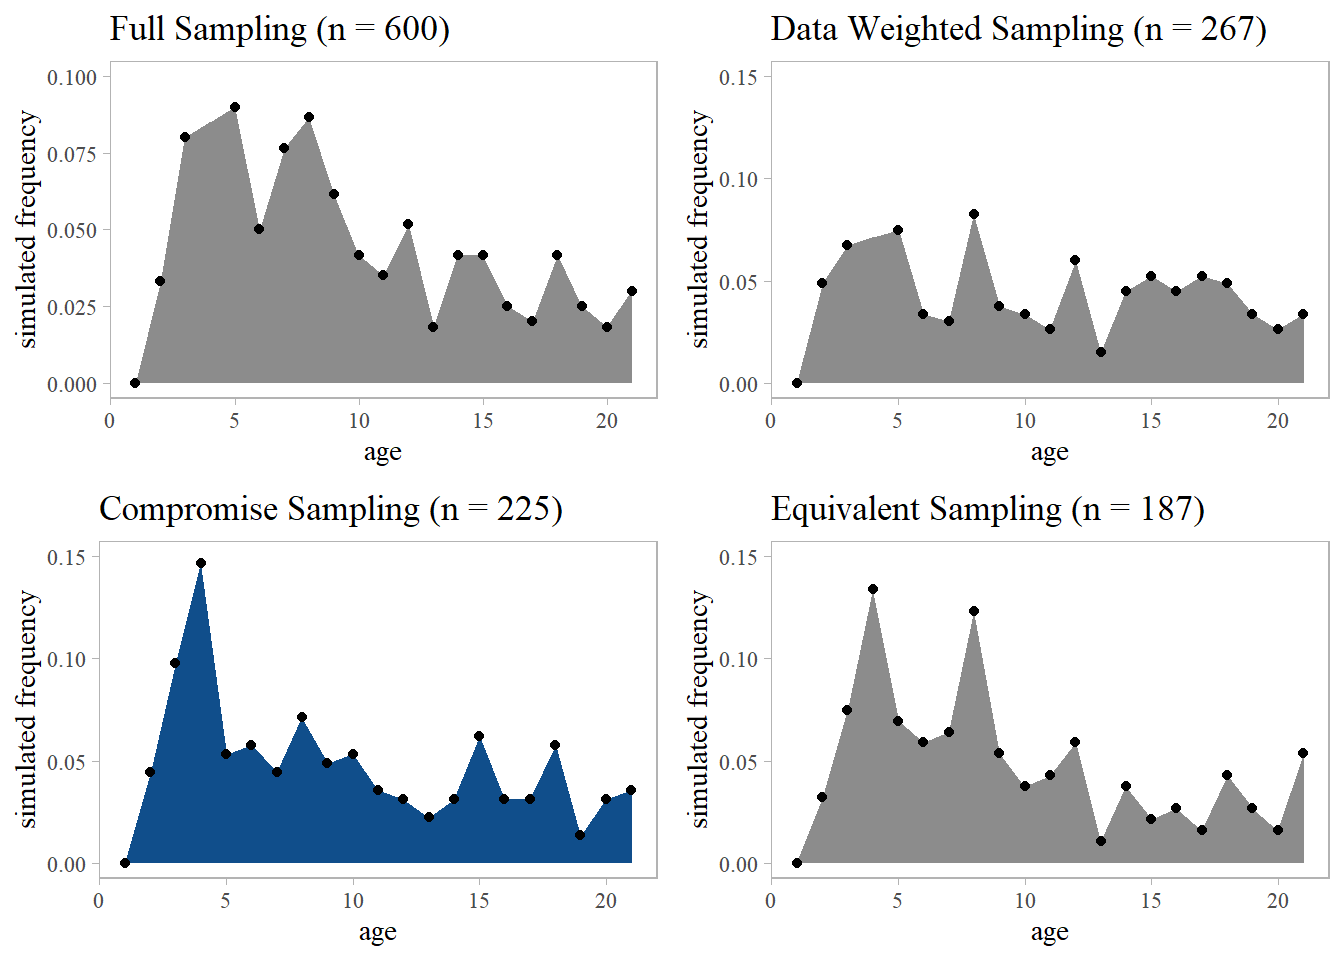
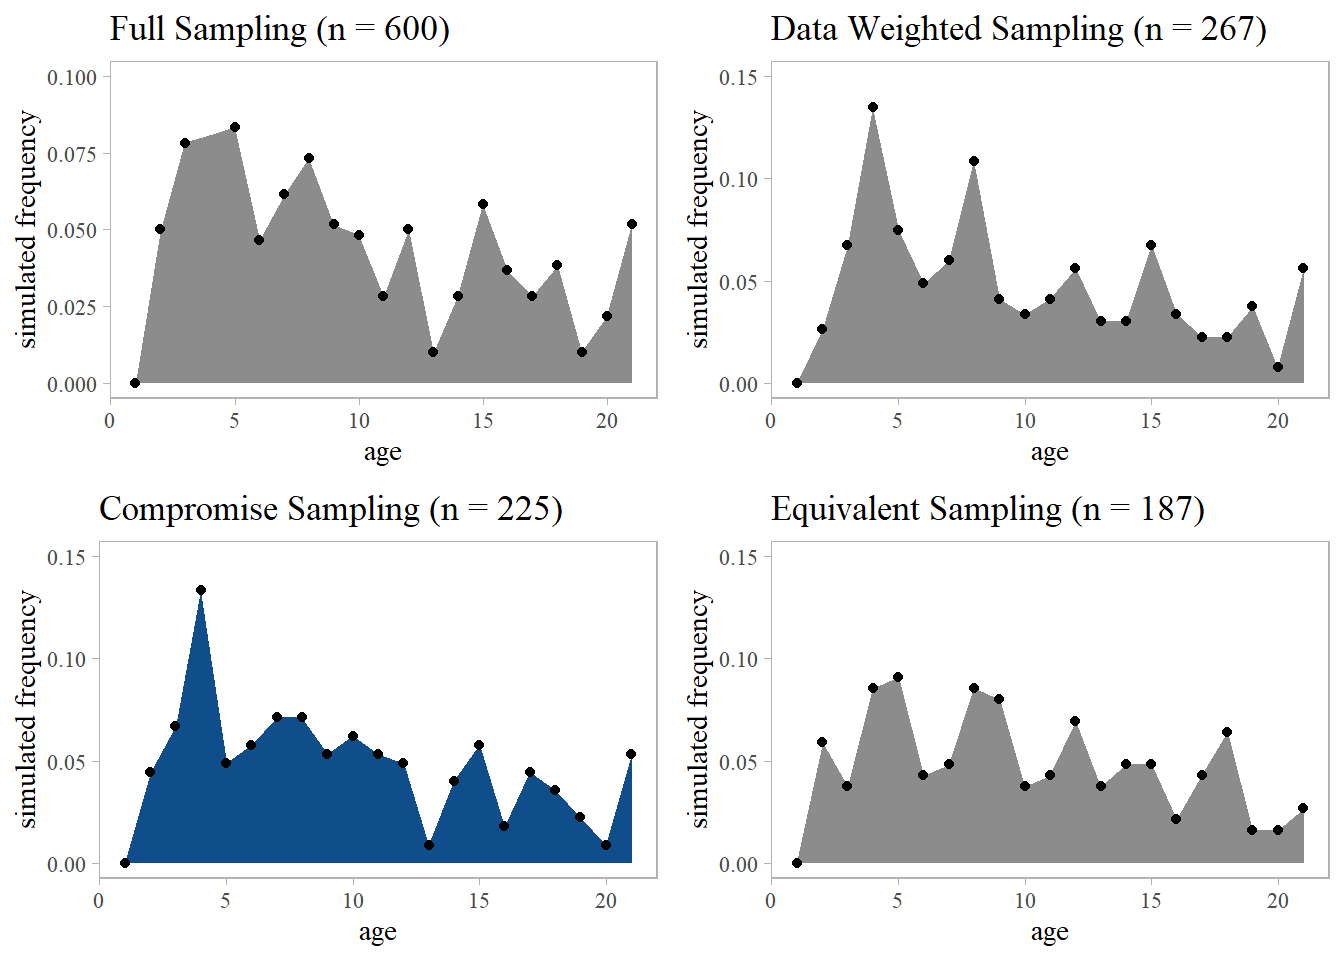
update marginal len/age look with gapindex
after confirming the input data was satisfactorily similar to the past, I re-ran the 2020 model with the gapindex data one at a time and confirmed that estimates were stable.

diff --git a/docs/2024_bridging_analysis.html b/docs/2024_bridging_analysis.html
@@ -412,17 +412,10 @@ ul.task-list li input[type="checkbox"] {
 <h2 class="anchored" data-anchor-id="survey-compositional-data">Survey Compositional Data</h2>
 <section id="survey-caals" class="level3">
 <h3 class="anchored" data-anchor-id="survey-caals">Survey CAALs</h3>
-<p>I was unable to reproduce the CAAL data used in 2020 with my own methods: starting with the <code>_specimen</code> data from either <code>afscdata()</code> or <code>gapindex</code> and running an intuitive calculation resulted in very different datasets (and derived quantities). The only thing that came close was to recycle Carey’s code to workup on the <code>AL.df</code> object corresponds to <code>2020/data/ages_survey_ebs.csv</code> which is the roughly the same as what comes out of <code>_specimen</code>. So, I consolidated the code used in the last model into <code>R/calculate_survey_comps.R</code>. I suspect that the <code>gapindex</code> data pull has some behind-the-scenes summary steps (e.g., those leading to the MEAN length column) that render it distinct from the raw specimen data, and that my “creative” use of <code>dplyr</code> might be masking discrepancies in summary methods.</p>
-<p>In addition, the <code>afscassess</code> package is not ready to handle the BSAI survey data, so marginal calculations had to be done with my own functions in <code>R/</code>.</p>
-<p>The model uses survey conditional age-at-length data and marginal length composition data. The marginal survey <em>ages</em> are ghosted into the model for plotting purposes. The workflow for these data are as follows:</p>
-<ul>
-<li>Pull the raw data from <code>racebase</code> using the <code>afscdata</code> approach (see <code>2024_analysis.R</code>)</li>
-<li>Calculate the marginal survey ages from <code>bsai_length_specimen.csv</code>.</li>
-<li>Calculate the marginal survey lengths from <code>bsai_length_data.csv</code>.</li>
-<li>Calculate conditional ages-at-length for each sex via the following: Starting with the EBS ages, filter out Bering Flounder (code <code>10140</code>) and only include the EBS (subarea &lt;= 6) and sexed fish (3). Bin the data into length and age bins greater than 0 (legacy code <code>BIN_AGE_DATA</code> and <code>BIN_LEN_DATA</code>). Group by bins and tabulate the number in each unique combination; filling missing values from zero. Reformat into SS3 syntax.</li>
-</ul>
+<p>I went on a long journey to reproduce the survey compositional data, and came to the conclusion that it must be done using the material in the <code>gapindex</code> package, which is more faithful to what was provided in earlier years in the <code>HAEHNR</code> schema. My suspicion is that there is under-the-hood filtration and expansion taht <code>afscdata</code> simply can’t handle yet (at least for the BSAI), and going forward it is more sensible that we work with a tool that is maintained by the folks collecting the data.</p>
+<p>A deep dive into these issues is undertaken in R/2024_survey_comp_deepdive.qmd, and the lessons learned led to the development of a standalone workup script that 1) pulls from <code>gapindex</code> and 2) munges the appropriate subtables in to the SS3-style compositional data. This replaces the long and redundant set of code that was developed for 2020. For simplicity, the plots here simply illustrate that we were able to get identical datasets and derived quantities using the new methods.</p>
 <div class="tabset-margin-container"></div><div class="panel-tabset">
-<ul class="nav nav-tabs" role="tablist"><li class="nav-item" role="presentation"><a class="nav-link active" id="tabset-5-1-tab" data-bs-toggle="tab" data-bs-target="#tabset-5-1" role="tab" aria-controls="tabset-5-1" aria-selected="true" href="">Survey CAALs from 18.c (2020)</a></li><li class="nav-item" role="presentation"><a class="nav-link" id="tabset-5-2-tab" data-bs-toggle="tab" data-bs-target="#tabset-5-2" role="tab" aria-controls="tabset-5-2" aria-selected="false" href="">Survey CAALs using <code>afscdata</code></a></li><li class="nav-item" role="presentation"><a class="nav-link" id="tabset-5-3-tab" data-bs-toggle="tab" data-bs-target="#tabset-5-3" role="tab" aria-controls="tabset-5-3" aria-selected="false" href="">Spawning Biomass, old vs new survey CAAL data</a></li><li class="nav-item" role="presentation"><a class="nav-link" id="tabset-5-4-tab" data-bs-toggle="tab" data-bs-target="#tabset-5-4" role="tab" aria-controls="tabset-5-4" aria-selected="false" href="">Recruitment Time Series, new survey CAAL data</a></li><li class="nav-item" role="presentation"><a class="nav-link" id="tabset-5-5-tab" data-bs-toggle="tab" data-bs-target="#tabset-5-5" role="tab" aria-controls="tabset-5-5" aria-selected="false" href="">Survey Fits, old vs new survey CAAL data</a></li><li class="nav-item" role="presentation"><a class="nav-link" id="tabset-5-6-tab" data-bs-toggle="tab" data-bs-target="#tabset-5-6" role="tab" aria-controls="tabset-5-6" aria-selected="false" href="">Growth Curves, old vs new survey CAAL data</a></li></ul>
+<ul class="nav nav-tabs" role="tablist"><li class="nav-item" role="presentation"><a class="nav-link active" id="tabset-5-1-tab" data-bs-toggle="tab" data-bs-target="#tabset-5-1" role="tab" aria-controls="tabset-5-1" aria-selected="true" href="">Survey CAALs from 18.c (2020)</a></li><li class="nav-item" role="presentation"><a class="nav-link" id="tabset-5-2-tab" data-bs-toggle="tab" data-bs-target="#tabset-5-2" role="tab" aria-controls="tabset-5-2" aria-selected="false" href="">Survey CAALs using <code>gapindex</code></a></li><li class="nav-item" role="presentation"><a class="nav-link" id="tabset-5-3-tab" data-bs-toggle="tab" data-bs-target="#tabset-5-3" role="tab" aria-controls="tabset-5-3" aria-selected="false" href="">Spawning Biomass, old vs new survey CAAL data</a></li><li class="nav-item" role="presentation"><a class="nav-link" id="tabset-5-4-tab" data-bs-toggle="tab" data-bs-target="#tabset-5-4" role="tab" aria-controls="tabset-5-4" aria-selected="false" href="">Recruitment Time Series, new survey CAAL data</a></li><li class="nav-item" role="presentation"><a class="nav-link" id="tabset-5-5-tab" data-bs-toggle="tab" data-bs-target="#tabset-5-5" role="tab" aria-controls="tabset-5-5" aria-selected="false" href="">Survey Fits, old vs new survey CAAL data</a></li><li class="nav-item" role="presentation"><a class="nav-link" id="tabset-5-6-tab" data-bs-toggle="tab" data-bs-target="#tabset-5-6" role="tab" aria-controls="tabset-5-6" aria-selected="false" href="">Growth Curves, old vs new survey CAAL data</a></li></ul>
 <div class="tab-content">
 <div id="tabset-5-1" class="tab-pane active" role="tabpanel" aria-labelledby="tabset-5-1-tab">
 <div class="cell">
@@ -430,7 +423,7 @@ ul.task-list li input[type="checkbox"] {
 <div class="quarto-figure quarto-figure-center">
 <figure class="figure">
 <p><img src="2024_bridging_analysis_files/figure-html/unnamed-chunk-27-1.png" class="img-fluid figure-img" width="672"></p>
-<figcaption class="figure-caption">Only trivial differences in this historical data provided to the original assessment (shown here) vs.&nbsp;those pulled using a combination of afscdata and the legacy code (next tab).</figcaption>
+<figcaption class="figure-caption">Only trivial differences in this historical data provided to the original assessment (shown here) vs.&nbsp;those pulled using the gapindex package.</figcaption>
 </figure>
 </div>
 </div>
@@ -438,7 +431,7 @@ ul.task-list li input[type="checkbox"] {
 <div class="quarto-figure quarto-figure-center">
 <figure class="figure">
 <p><img src="2024_bridging_analysis_files/figure-html/unnamed-chunk-27-2.png" class="img-fluid figure-img" width="672"></p>
-<figcaption class="figure-caption">Only trivial differences in this historical data provided to the original assessment (shown here) vs.&nbsp;those pulled using a combination of afscdata and the legacy code (next tab).</figcaption>
+<figcaption class="figure-caption">Only trivial differences in this historical data provided to the original assessment (shown here) vs.&nbsp;those pulled using the gapindex package.</figcaption>
 </figure>
 </div>
 </div>
@@ -446,7 +439,7 @@ ul.task-list li input[type="checkbox"] {
 <div class="quarto-figure quarto-figure-center">
 <figure class="figure">
 <p><img src="2024_bridging_analysis_files/figure-html/unnamed-chunk-27-3.png" class="img-fluid figure-img" width="672"></p>
-<figcaption class="figure-caption">Only trivial differences in this historical data provided to the original assessment (shown here) vs.&nbsp;those pulled using a combination of afscdata and the legacy code (next tab).</figcaption>
+<figcaption class="figure-caption">Only trivial differences in this historical data provided to the original assessment (shown here) vs.&nbsp;those pulled using the gapindex package.</figcaption>
 </figure>
 </div>
 </div>
@@ -454,7 +447,7 @@ ul.task-list li input[type="checkbox"] {
 <div class="quarto-figure quarto-figure-center">
 <figure class="figure">
 <p><img src="2024_bridging_analysis_files/figure-html/unnamed-chunk-27-4.png" class="img-fluid figure-img" width="672"></p>
-<figcaption class="figure-caption">Only trivial differences in this historical data provided to the original assessment (shown here) vs.&nbsp;those pulled using a combination of afscdata and the legacy code (next tab).</figcaption>
+<figcaption class="figure-caption">Only trivial differences in this historical data provided to the original assessment (shown here) vs.&nbsp;those pulled using the gapindex package.</figcaption>
 </figure>
 </div>
 </div>
@@ -466,7 +459,7 @@ ul.task-list li input[type="checkbox"] {
 <div class="quarto-figure quarto-figure-center">
 <figure class="figure">
 <p><img src="2024_bridging_analysis_files/figure-html/unnamed-chunk-28-1.png" class="img-fluid figure-img" width="672"></p>
-<figcaption class="figure-caption">Only trivial differences in this historical data provided to the original assessment (previous tab) vs.&nbsp;those pulled using a combination of afscdata and the legacy code (shown here).</figcaption>
+<figcaption class="figure-caption">Only trivial differences in this historical data provided to the original assessment (previous tab) vs.&nbsp;those pulled using the gapindex package (shown here).</figcaption>
 </figure>
 </div>
 </div>
@@ -474,7 +467,7 @@ ul.task-list li input[type="checkbox"] {
 <div class="quarto-figure quarto-figure-center">
 <figure class="figure">
 <p><img src="2024_bridging_analysis_files/figure-html/unnamed-chunk-28-2.png" class="img-fluid figure-img" width="672"></p>
-<figcaption class="figure-caption">Only trivial differences in this historical data provided to the original assessment (previous tab) vs.&nbsp;those pulled using a combination of afscdata and the legacy code (shown here).</figcaption>
+<figcaption class="figure-caption">Only trivial differences in this historical data provided to the original assessment (previous tab) vs.&nbsp;those pulled using the gapindex package (shown here).</figcaption>
 </figure>
 </div>
 </div>
@@ -482,7 +475,7 @@ ul.task-list li input[type="checkbox"] {
 <div class="quarto-figure quarto-figure-center">
 <figure class="figure">
 <p><img src="2024_bridging_analysis_files/figure-html/unnamed-chunk-28-3.png" class="img-fluid figure-img" width="672"></p>
-<figcaption class="figure-caption">Only trivial differences in this historical data provided to the original assessment (previous tab) vs.&nbsp;those pulled using a combination of afscdata and the legacy code (shown here).</figcaption>
+<figcaption class="figure-caption">Only trivial differences in this historical data provided to the original assessment (previous tab) vs.&nbsp;those pulled using the gapindex package (shown here).</figcaption>
 </figure>
 </div>
 </div>
@@ -490,7 +483,7 @@ ul.task-list li input[type="checkbox"] {
 <div class="quarto-figure quarto-figure-center">
 <figure class="figure">
 <p><img src="2024_bridging_analysis_files/figure-html/unnamed-chunk-28-4.png" class="img-fluid figure-img" width="672"></p>
-<figcaption class="figure-caption">Only trivial differences in this historical data provided to the original assessment (previous tab) vs.&nbsp;those pulled using a combination of afscdata and the legacy code (shown here).</figcaption>
+<figcaption class="figure-caption">Only trivial differences in this historical data provided to the original assessment (previous tab) vs.&nbsp;those pulled using the gapindex package (shown here).</figcaption>
 </figure>
 </div>
 </div>
@@ -525,6 +518,7 @@ ul.task-list li input[type="checkbox"] {
 </section>
 <section id="survey-marginal-lengths" class="level2">
 <h2 class="anchored" data-anchor-id="survey-marginal-lengths">Survey Marginal Lengths</h2>
+<p>The input sample sizes are slightly different in the new datapull (from <code>gapindex</code>)</p>
 <div class="tabset-margin-container"></div><div class="panel-tabset">
 <ul class="nav nav-tabs" role="tablist"><li class="nav-item" role="presentation"><a class="nav-link active" id="tabset-6-1-tab" data-bs-toggle="tab" data-bs-target="#tabset-6-1" role="tab" aria-controls="tabset-6-1" aria-selected="true" href="">Survey lengths from 18.c (2020)</a></li><li class="nav-item" role="presentation"><a class="nav-link" id="tabset-6-2-tab" data-bs-toggle="tab" data-bs-target="#tabset-6-2" role="tab" aria-controls="tabset-6-2" aria-selected="false" href="">Survey lengths using <code>afscdata</code></a></li><li class="nav-item" role="presentation"><a class="nav-link" id="tabset-6-3-tab" data-bs-toggle="tab" data-bs-target="#tabset-6-3" role="tab" aria-controls="tabset-6-3" aria-selected="false" href="">Spawning Biomass, old vs new survey lengths</a></li><li class="nav-item" role="presentation"><a class="nav-link" id="tabset-6-4-tab" data-bs-toggle="tab" data-bs-target="#tabset-6-4" role="tab" aria-controls="tabset-6-4" aria-selected="false" href="">Recruitment Time Series, new survey lengths</a></li><li class="nav-item" role="presentation"><a class="nav-link" id="tabset-6-5-tab" data-bs-toggle="tab" data-bs-target="#tabset-6-5" role="tab" aria-controls="tabset-6-5" aria-selected="false" href="">Survey Fits, old vs new survey lengths</a></li><li class="nav-item" role="presentation"><a class="nav-link" id="tabset-6-6-tab" data-bs-toggle="tab" data-bs-target="#tabset-6-6" role="tab" aria-controls="tabset-6-6" aria-selected="false" href="">Growth Curves, old vs new survey lengths</a></li></ul>
 <div class="tab-content">
@@ -534,7 +528,7 @@ ul.task-list li input[type="checkbox"] {
 <div class="quarto-figure quarto-figure-center">
 <figure class="figure">
 <p><img src="2024_bridging_analysis_files/figure-html/unnamed-chunk-34-1.png" class="img-fluid figure-img" width="672"></p>
-<figcaption class="figure-caption">Only trivial differences in this historical data provided to the original assessment (shown here) vs.&nbsp;those pulled using a combination of afscdata and the legacy code (next tab).</figcaption>
+<figcaption class="figure-caption">Only trivial differences in this historical data provided to the original assessment (shown here) vs.&nbsp;those pulled using the gapindex package (next tab).</figcaption>
 </figure>
 </div>
 </div>
@@ -542,7 +536,7 @@ ul.task-list li input[type="checkbox"] {
 <div class="quarto-figure quarto-figure-center">
 <figure class="figure">
 <p><img src="2024_bridging_analysis_files/figure-html/unnamed-chunk-34-2.png" class="img-fluid figure-img" width="672"></p>
-<figcaption class="figure-caption">Only trivial differences in this historical data provided to the original assessment (shown here) vs.&nbsp;those pulled using a combination of afscdata and the legacy code (next tab).</figcaption>
+<figcaption class="figure-caption">Only trivial differences in this historical data provided to the original assessment (shown here) vs.&nbsp;those pulled using the gapindex package (next tab).</figcaption>
 </figure>
 </div>
 </div>
@@ -554,7 +548,7 @@ ul.task-list li input[type="checkbox"] {
 <div class="quarto-figure quarto-figure-center">
 <figure class="figure">
 <p><img src="2024_bridging_analysis_files/figure-html/unnamed-chunk-35-1.png" class="img-fluid figure-img" width="672"></p>
-<figcaption class="figure-caption">Only trivial differences in this historical data provided to the original assessment (previous tab) vs.&nbsp;those pulled using a combination of afscdata and the legacy code (shown here).</figcaption>
+<figcaption class="figure-caption">Only trivial differences in this historical data provided to the original assessment (previous tab) vs.&nbsp;those pulled using the gapindex package (shown here).</figcaption>
 </figure>
 </div>
 </div>
@@ -562,7 +556,7 @@ ul.task-list li input[type="checkbox"] {
 <div class="quarto-figure quarto-figure-center">
 <figure class="figure">
 <p><img src="2024_bridging_analysis_files/figure-html/unnamed-chunk-35-2.png" class="img-fluid figure-img" width="672"></p>
-<figcaption class="figure-caption">Only trivial differences in this historical data provided to the original assessment (previous tab) vs.&nbsp;those pulled using a combination of afscdata and the legacy code (shown here).</figcaption>
+<figcaption class="figure-caption">Only trivial differences in this historical data provided to the original assessment (previous tab) vs.&nbsp;those pulled using the gapindex package (shown here).</figcaption>
 </figure>
 </div>
 </div>
@@ -596,7 +590,31 @@ ul.task-list li input[type="checkbox"] {
 </section>
 <section id="survey-ages-ghosted" class="level2">
 <h2 class="anchored" data-anchor-id="survey-ages-ghosted">Survey Ages (ghosted)</h2>
-<p>These aren’t used in the model but I wanted to confirm the pull from <code>afscdata</code> looked reasonable.</p>
+<p>These aren’t used in the model but I wanted to confirm the pull from <code>afscdata</code> looked reasonable. Annoyingly, the SS3 plots for ghosted values aren’t callable and the zoom is wrong, but these are satisfactory.</p>
+<p>::: panel-tabset ### Ghosted Survey Ages from 18.c (2020)</p>
+<div class="cell">
+<div class="cell-output-display">
+<div class="quarto-figure quarto-figure-center">
+<figure class="figure">
+<p><img src="../2024/mgmt/18.2c_2020/plots/comp_gstagedat_flt2mkt0.png" class="img-fluid figure-img" width="975"></p>
+<figcaption class="figure-caption">Only trivial differences in this historical data provided to the original assessment (shown here) vs.&nbsp;those pulled using the gapindex package (next tab).</figcaption>
+</figure>
+</div>
+</div>
+</div>
+<section id="ghosted-survey-ages-from-gapindex" class="level3">
+<h3 class="anchored" data-anchor-id="ghosted-survey-ages-from-gapindex">Ghosted Survey Ages from <code>gapindex</code></h3>
+<div class="cell">
+<div class="cell-output-display">
+<div class="quarto-figure quarto-figure-center">
+<figure class="figure">
+<p><img src="../2024/model_runs/18.2c_2020_ss3v33022w-new_srv_ages_ghost/plots/comp_gstagedat_flt2mkt0_page1.png" class="img-fluid figure-img" width="975"></p>
+<figcaption class="figure-caption">Only trivial differences in this historical data provided to the original assessment (previous tab) vs.&nbsp;those pulled using the gapindex package (shown here).</figcaption>
+</figure>
+</div>
+</div>
+</div>
+</section>
 </section>
 </section>
 <section id="data-bridging" class="level1">
